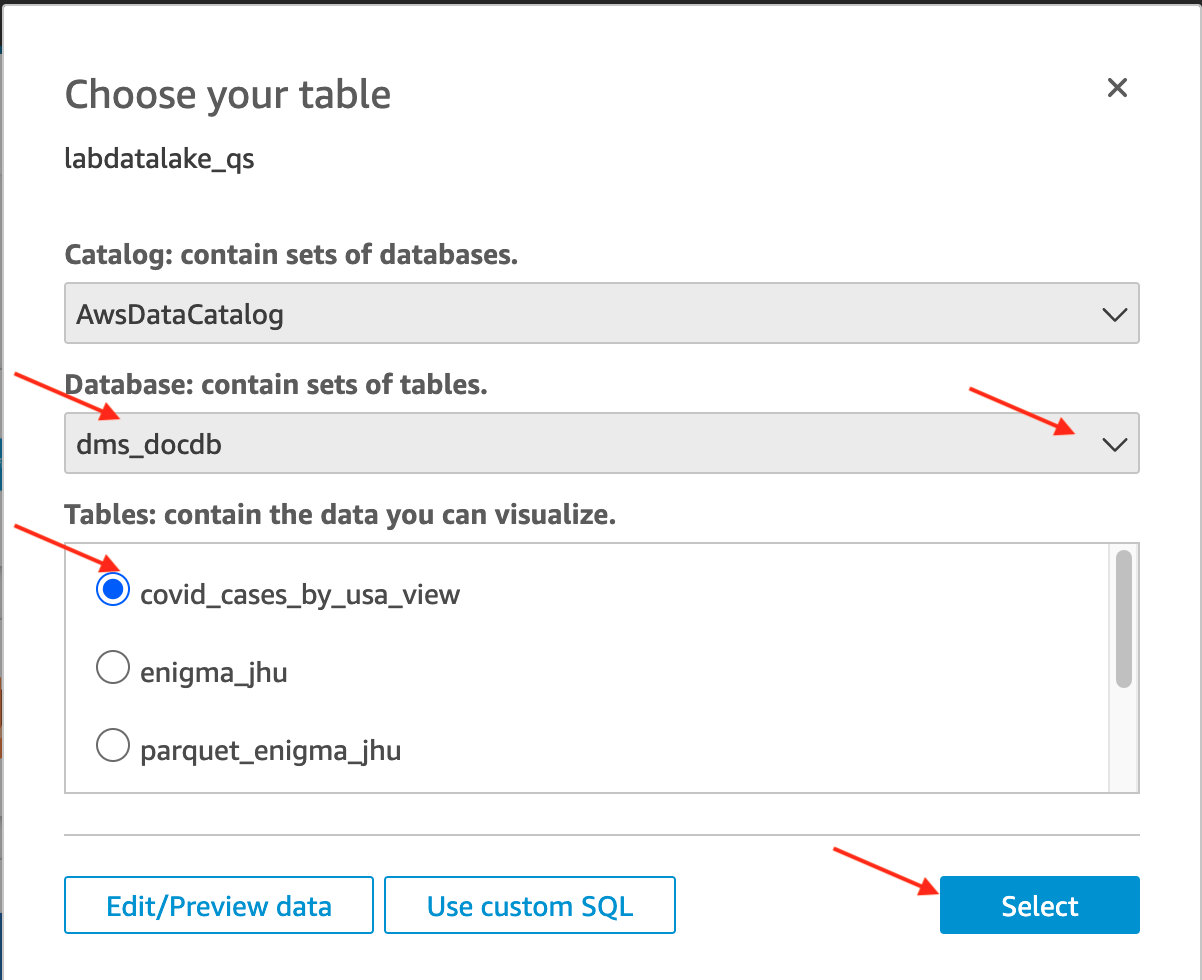
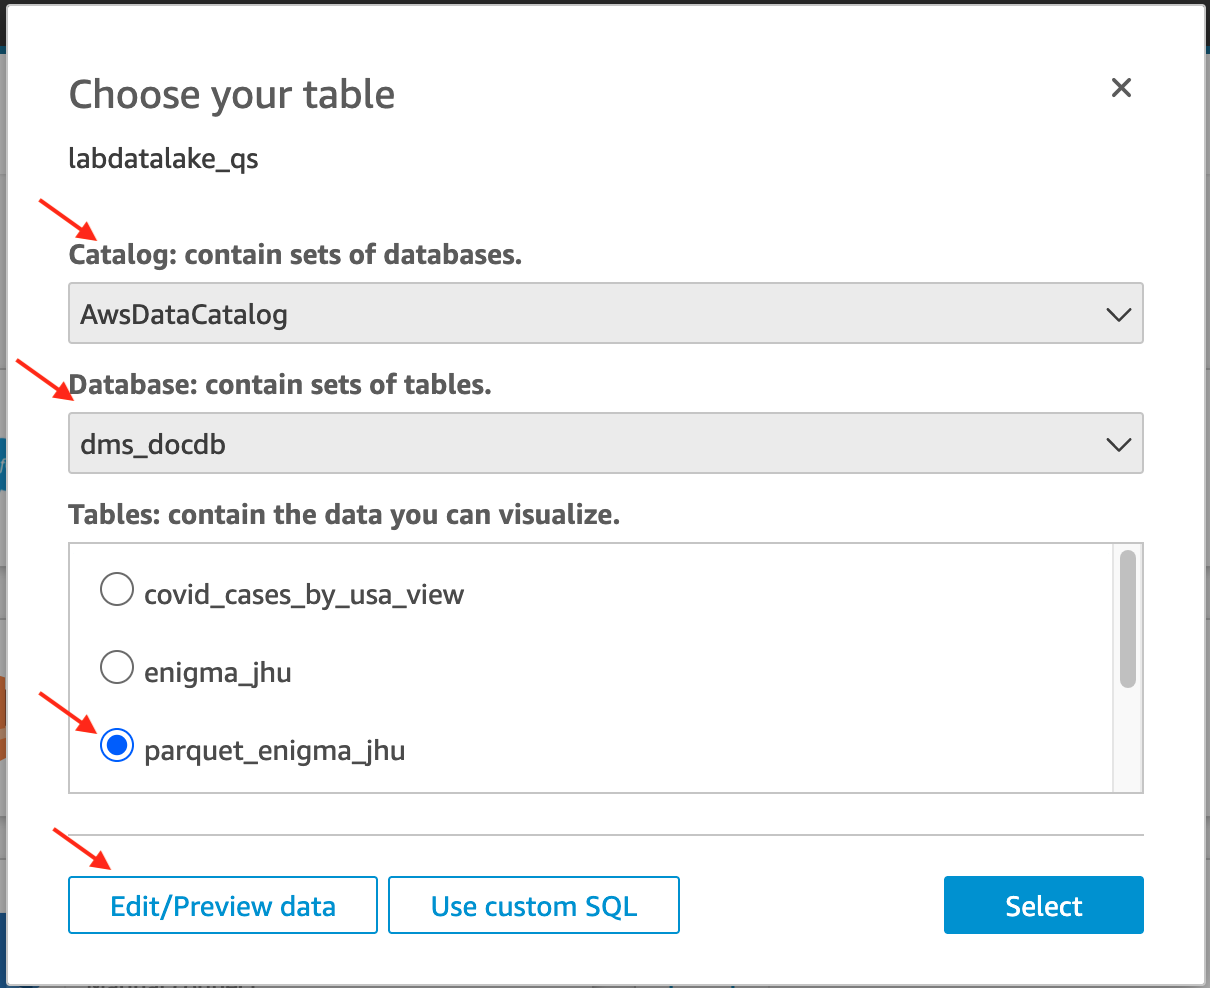
completed with QS labs

Changed region(s): [[0.0, 0.0, 1.0, 1.0], [0.3078, 0.8878, 0.5541, 0.949], [0.9235, 0.0612, 0.9542, 0.0918]]

diff --git a/workshop/content/ExploringDataLake/Lab5/_index.md b/workshop/content/ExploringDataLake/Lab5/_index.md
@@ -28,16 +28,105 @@ In this lab, you will create Quicksight account and use the data from Athena lab
 1.  Click on Datasets on the left pane, then click on **New dataset** button on top right
 1.1 Ensure you are in Ohio or us-east-2 region
     {{< img "qs-region.png" "qs-region" >}} 
-1.2 You should various data sources it can connect to, click on Athena
+1.2 You should see various data sources it can connect to, click on Athena
     {{< img "qs-ds-1.png" "qs-ds1" >}} 
     Provide a Data source name eg: `labdatalake_qs`
     Click on validate connection button. In few seconds it will validate Quicksight's connection to Athena
     Click on Create data source blue button.
     {{< img "qs-ds-2.png" "qs-ds2" >}} 
-    Next, you are connected and select the `dms_docdb` database and pick the view you have created in the previous Athena lab. Click Select.
+    Next, you are connected and select the `dms_docdb` database and pick the `parquet_enigma_jhu` table. Click on Edit/Preview data button.
     {{< img "qs-table.png" "qs-table" >}} 
-    Next, keep **Import to SPICE for quicker analytics** option if it is available OR select **Directly query your data** option. Click Visualize.
-    {{< img "qs-visual.png" "qs-visual" >}} 
-    If you select SPICE option in last step, it will take some time for data to get loaded into SPICE.
-    This is where you will land up to
+    This brings you to visual query editor console. There on top change Dataset name to `labdatalake_dataset` and then go to top right to click on Add data blue button to add another table `parquet_hospital_beds`
+    {{< img "qs-table2.png" "qs-table2" >}} 
+    Next click on the two red bubbles, and you will see some options below to join. Select inner join and select from drop down columns `fips` to join the two tables.
+    You can also use a view with all the join logic in Athena but this is a way to do it from QuickSight. Click Apply. It will preview all the columns with data below.
+    {{< img "qs-table-join.png" "qs-table-join" >}} 
+
+    Take a moment to scroll and check the data, then click on Save & visualize button on top right to go to visualize canvas. You will see [AutoGraph](https://docs.aws.amazon.com/quicksight/latest/user/autograph.html) is pre-selected
+    {{< img "qs-save-visualize.png" "qs-save-visualize" >}} 
     {{< img "qs-visual-land.png" "qs-visual-land" >}} 
+
+#### Create visual
+{{% notice info %}}
+Screenshot is only for illustration purpose, the actual data may change during the lab. The idea is to show to you ease of use of QuickSight, some of its features and give you hands-on experience using it.
+{{% /notice %}}
+1.  By default, AutoGraph is selected as visual type. It charts your data automatically using the most approprite visual for the data you choose.
+1.1 In the field list click on `# confirmed` field. By default, AutoGraph will show the Sum of confirmed covid cases as metric in the tile. Take a moment to review as shown below -
+    {{< img "qs-autograph-number.png" "qs-autograph-number" >}} 
+    You will see a blue outline around the visual tile, which means the tile is currently selected.
+    Highlight the title `Sum of Confirmed` and change it to `Confirmed cases`   
+1.2 Click outside the selected tile and click on `deaths` column from Field list. The Autograph will create another tile
+    {{< img "qs-visual2.png" "qs-visual2" >}} 
+1.3 Now you realized, you need to change data type for a column `last_update` from string to date. Click on penil icon next to Dataset. It will give you the dataset you have created. Click ellipses again and choose Edit option. It will take back to data editor console. In Data editor, from left search for `last_update`. Then next to column, click ellipses again>Change data type>Date options.
+    {{< img "qs-visual-edit-ds.png" "qs-visual-edit-ds" >}} 
+    {{< img "qs-visual-edit-ds2.png" "qs-visual-edit-ds2" >}} 
+
+    After you select Date, it will ask you for the date format. Copy and paste below into the date format box and click Validate. If all good, click on Update.
+    ```bash 
+    yyyy-MM-dd'T'HH:mm:ss 
+    ```
+    {{< img "qs-visual-edit-ds3.png" "qs-visual-edit-ds3" >}} 
+    {{< img "qs-visual-edit-ds4.png" "qs-visual-edit-ds4" >}} 
+
+    Click on Save & visualize button again to go back to Visual canvas. In the visual canvas, you will notice icon next to last_update is changed to a calendar denoting it has Date datatype now.    
+1.4 Next lets select Line chart for the next Visual type. First click on `+Add` button on top left of the page and choose Add visual to add anothe tile to the canvas.
+For this visual, lets select `last_update` on X-axis and `confirmed` as the value which you are tracking by it.
+    {{< img "qs-add-visual.png" "qs-add-visual" >}} 
+
+    Then on the selected tile, Choose Line Chart
+    {{< img "qs-visual-line1.png" "qs-visual-line1" >}} 
+
+    Then from Fields list, pick `last_update`
+    {{< img "qs-visual-line1.png" "qs-visual-line2" >}} 
+
+    Then from Fields list, pick `confirmed`. The line chart will update to show distribution of confirmed covid cases by date.
+    {{< img "qs-visual-line3.png" "qs-visual-line3" >}}
+
+    You can use mouse and drag to fill all the space with this visual.
+    As things are now, last_update is shown at date granularity. You can change that to Week (or anything else), by clicking on the dropdown next to last_update column in the Field wells on the top of the tile.
+    {{< img "qs-visual-line4.png" "qs-visual-line4" >}}
+1.5 Next lets use some ML features out of the box.   
+    1.5.1 Forecast
+            While you have the Line chart tile selected. On its right edge, click on ellipses and Add forecast
+            {{< img "qs-visual-line5.png" "qs-visual-line5" >}}
+    QuickSight used the existing data and created an Orange colored line forecasting for next 14 periods (defaul) in future. The more the data, the better is forecasting as it is with any ML algorithm. You can change the Periods and use this feature without writing a single line of code.   
+
+            {{< img "qs-visual-line6.png" "qs-visual-line6" >}}
+    1.5.2 Natural language narrative
+            While it is always good to have charts and visuals. You can enrich them by adding narratives in English. QuickSight automatically generates them for you depending on the data for a visual. Lets click on the left pane, on Insights button. You will see a list of suggested insights, which you can add using the `=` next to it.
+            Lets click `+` next to Highest Week and Lowest Week metrics. You can then position the tiles right above line chart as it is related to that.
+            {{< img "qs-visual-line7.png" "qs-visual-line7" >}}
+            {{< img "qs-visual-line8.png" "qs-visual-line8" >}}
+            {{< img "qs-visual-line9.png" "qs-visual-line9" >}}
+    1.5.3 Geospatial visual   
+            Finally, lets create a geospatial visual.
+            Again from top left corner click on `+ Add visual` button to add a new visual. Select `Point on map` visual type from the menu.
+            Then from Fields list, click on State_name, Confirmed and county_name columns. Expand the tile by dragging the edges, to cover more space on the canvas.
+            {{< img "qs-visual-geo1.png" "qs-visual-geo1" >}}
+
+            Click on the gear icon on the visual tile, to open Format visual menu. From there, click on Legend and uncheck `Show legend` box.
+            {{< img "qs-visual-geo2.png" "qs-visual-geo2" >}}
+            {{< img "qs-visual-geo3.png" "qs-visual-geo3" >}}
+
+            On the map, you can now hover on any state, and see information about the counties under the state.
+            {{< img "qs-visual-geo4.png" "qs-visual-geo4" >}}
+
+This lab gave you a good overview of visuals and how to use them on QuickSight. You can add actions for end users on QuickSight visuals too. Please read more about [filters](https://docs.aws.amazon.com/quicksight/latest/user/filtering-visual-data.html) and [drill-downs](https://docs.aws.amazon.com/quicksight/latest/user/adding-drill-downs.html)
+
+#### Publish dashboad
+After you have created individual visuals, you would need to share them using a dashboard with your end users to start using these visuals.
+1.  If you are not still in the `labdatalake_dataset analysis`, you can go there using QuickSight>Analyses>labdatalake_dataset analysis.
+    once you are in the analyses, click on top right `Share` button
+    {{< img "qs-publish-dash1.png" "qs-publish-dash1" >}}
+
+    Give a name for the dashboard like - `labdatalake-covid-cases-dashboard` and Click Publish dashboard button
+
+    {{< img "qs-publish-dash2.png" "qs-publish-dash2" >}}
+
+    Skip the `Share dashboard` screen by `x` on the pop up.
+
+    What you see next is the published dashboard as it will appear to a consumer once shared.
+    {{< img "qs-publish-dash3.png" "qs-publish-dash3" >}}
+
+Congratulations!! You finished all the labs to explore document data using your data lake.
+

diff --git a/workshop/content/ExploringDataLake/Lab2/_index.md b/workshop/content/ExploringDataLake/Lab2/_index.md
@@ -26,7 +26,7 @@ Screenshot is only for illustration purpose, the actual bucket name for your lab
 {{% /notice %}}
 1.4 Click on Target node on the graph next. Select Format as Parquet, Compression Type as None and browse and select S3 location with `labdatalake` in the bucket name where data is to be written in parquet.
     {{< img "etl1-target1.png" "etl1-target1" >}} 
-We have not created target folder so lets add it to the S3 Target Location path as shown, which Glue will create for us. We should have one folder per target table. Since it is parquet data we will store the data under parquet folder. Append `parquet/enigma_jhu/` to the S3 bucket path you have selected OR you could just paste the whole path as `s3://labdatalake/parquet/enigma_jhu/`
+We have not created target folder so lets add it to the S3 Target Location path as shown, which Glue will create for us. We should have one folder per target table. Since it is parquet data we will store the data under parquet folder. Append `parquet/enigma_jhu/` to the S3 bucket path you have selected OR you could just paste the whole path similar to `s3://labdatalake/parquet/enigma_jhu/`
     {{< img "etl1-target1-path.png" "etl1-target1-path" >}}   
 1.5 Next click on Script tab to see the script auto generated by Glue Studio. This is a very good way to learn as well.  
 1.6 Next click on Job details tab. Put Name as `enigma_jhu_parquet_job`
@@ -49,7 +49,10 @@ We have not created target folder so lets add it to the S3 Target Location path 
 2.  Following above steps, create another Glue Studio ETL job with following changes  
 2.1 Data source S3 as Database = `dms_docdb` and Table = `reacr_usa_hospital_beds`  
 2.2 ApplyMapping transform node, IAM Role as same role used as before  
-2.3 Target S3 node with Format = Parquet and S3 target location as `s3://labdatalake/parquet/hospital_beds/`  
+{{% notice info %}}
+The actual bucket name for your lab will be similar NOT exactly the same
+{{% /notice %}}
+2.3 Target S3 node with Format = Parquet and S3 target location similar to `s3://labdatalake/parquet/hospital_beds/`  
 2.4 On Job details tab input following; Name = `hospital_beds_parquet_job`
     IAM Role = `AWSGlueServiceRole-labdatalake`, Job bookmark = `Disable`.  
     Click Save.  

diff --git a/workshop/content/ExploringDataLake/Lab4/_index.md b/workshop/content/ExploringDataLake/Lab4/_index.md
@@ -72,7 +72,7 @@ This way you can query parquet files on S3 location directly using SQL on Athena
     Provide name as `covid_cases_by_usa_view` and click on Create button  
     {{< img "athena-create-view2.png" "athena-create-view2" >}} 
     {{< img "athena-create-view3.png" "athena-create-view3" >}} 
-    c.  You can create a Table **(Try on your own)**
+    c.  You can create a new Table **(Try on your own)**
         You will provide S3 location and file format you want to store data into this new table. This gives analyst simple ETL mechanism using SQL where they can deploy ETL logic and create a table and data files on another S3 location. They may need for intermediate processing or sharing it with other users.
 
 With this you are done trying out how you can leverage Athena for your interactive data query needs on your data lake. This gives you a powerful tool in the hands of your data analysts or data scientists to explore data using SQL. In the next lab we will use Amazon Quicksight to create some visuals and dashboards to show how easily you can consume same data on data lake via different types of tools.

diff --git a/workshop/content/ExploringDataLake/Lab1/_index.md b/workshop/content/ExploringDataLake/Lab1/_index.md
@@ -71,5 +71,7 @@ Screenshot is only for illustration purpose, the actual bucket name for your lab
    explore the schema. For example, enigma_jhu schema would look like this -
    {{< img "enigma_jhu_schema.png" "enigma_jhu_schema" >}}
 
+After you have crawled raw data, lets use the catalog objects as source to transform the data using Glue Studio and ETL jobs next.
+
 
 
